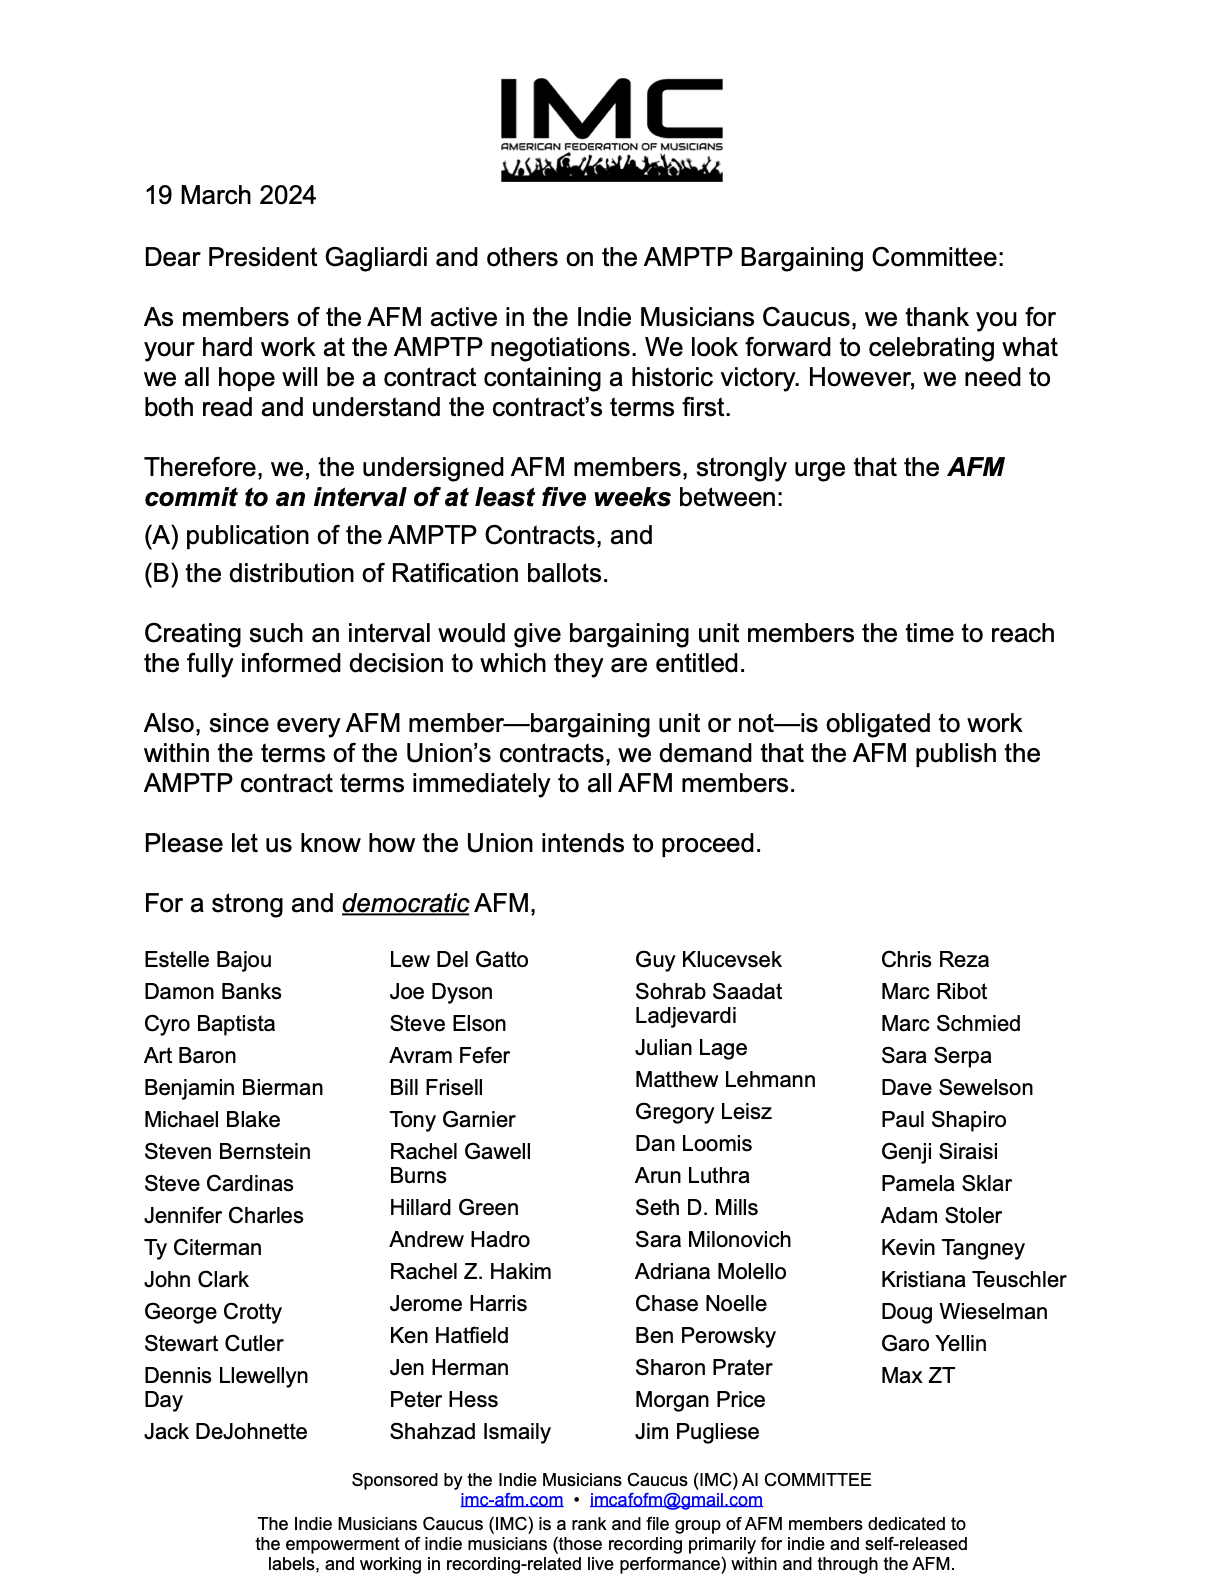
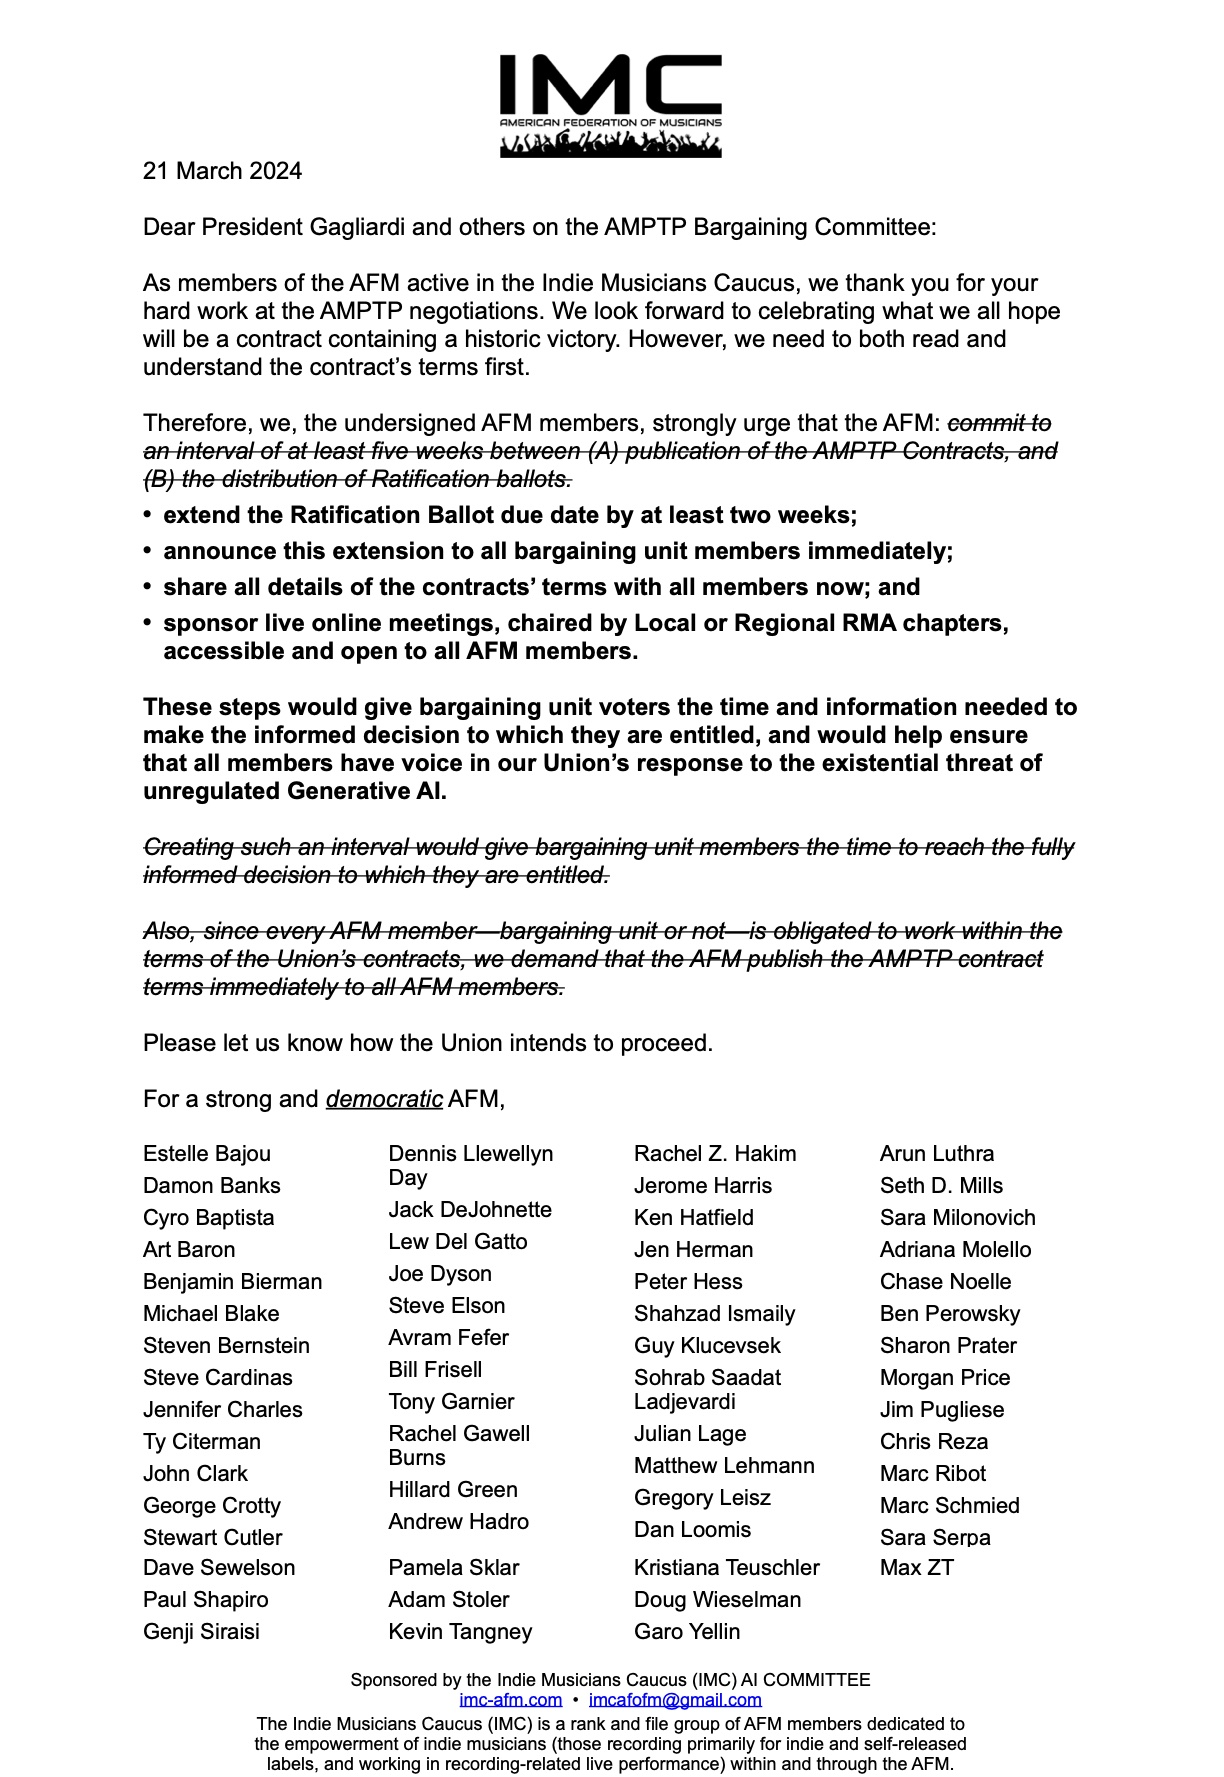
open letter revisions

Changed region(s): [[0.0931, 0.0309, 0.8693, 1.0], [0.7141, 0.5878, 0.8693, 0.8971]]

diff --git a/ai-campaign/index.html b/ai-campaign/index.html
@@ -36,7 +36,10 @@
 
     <p>You can show your support for a democratic AFM by joining us in <a
         href="mailto:imcafofm@gmail.com?subject=Please add my name to the open letter to AFM">
-        co-signing our Open Letter to the AFM</a><sup>*</sup>: </p>
+        co-signing our Open Letter to the AFM</a>.<sup>*</sup> Since ratification ballots were mailed out yesterday, it
+      is no longer possible for the union to share the contract language <i>before</i> mailing, as our Open Letter had
+      urged. Thus we have revised the letter as follows, with removed language crossed out and new language in bold:
+    </p>
 
     <img class="img-fluid py-2" src="../assets/AN OPEN LETTER TO THE AFM.png">
 
